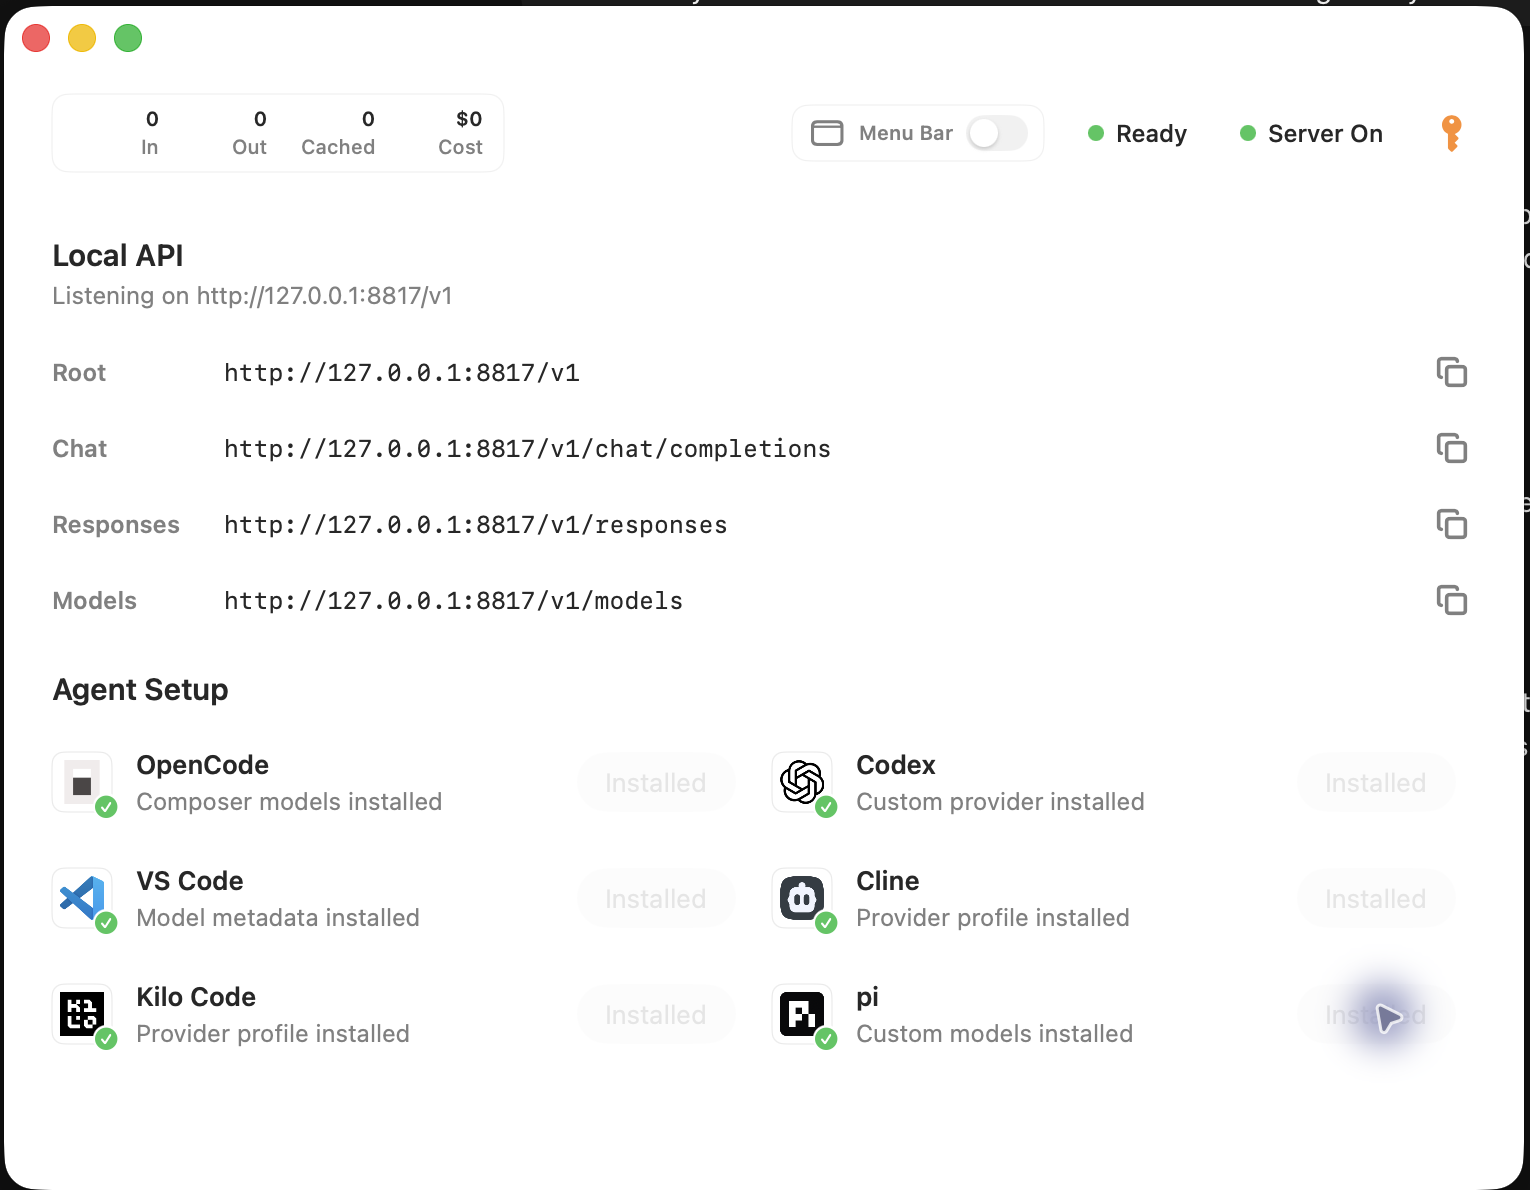
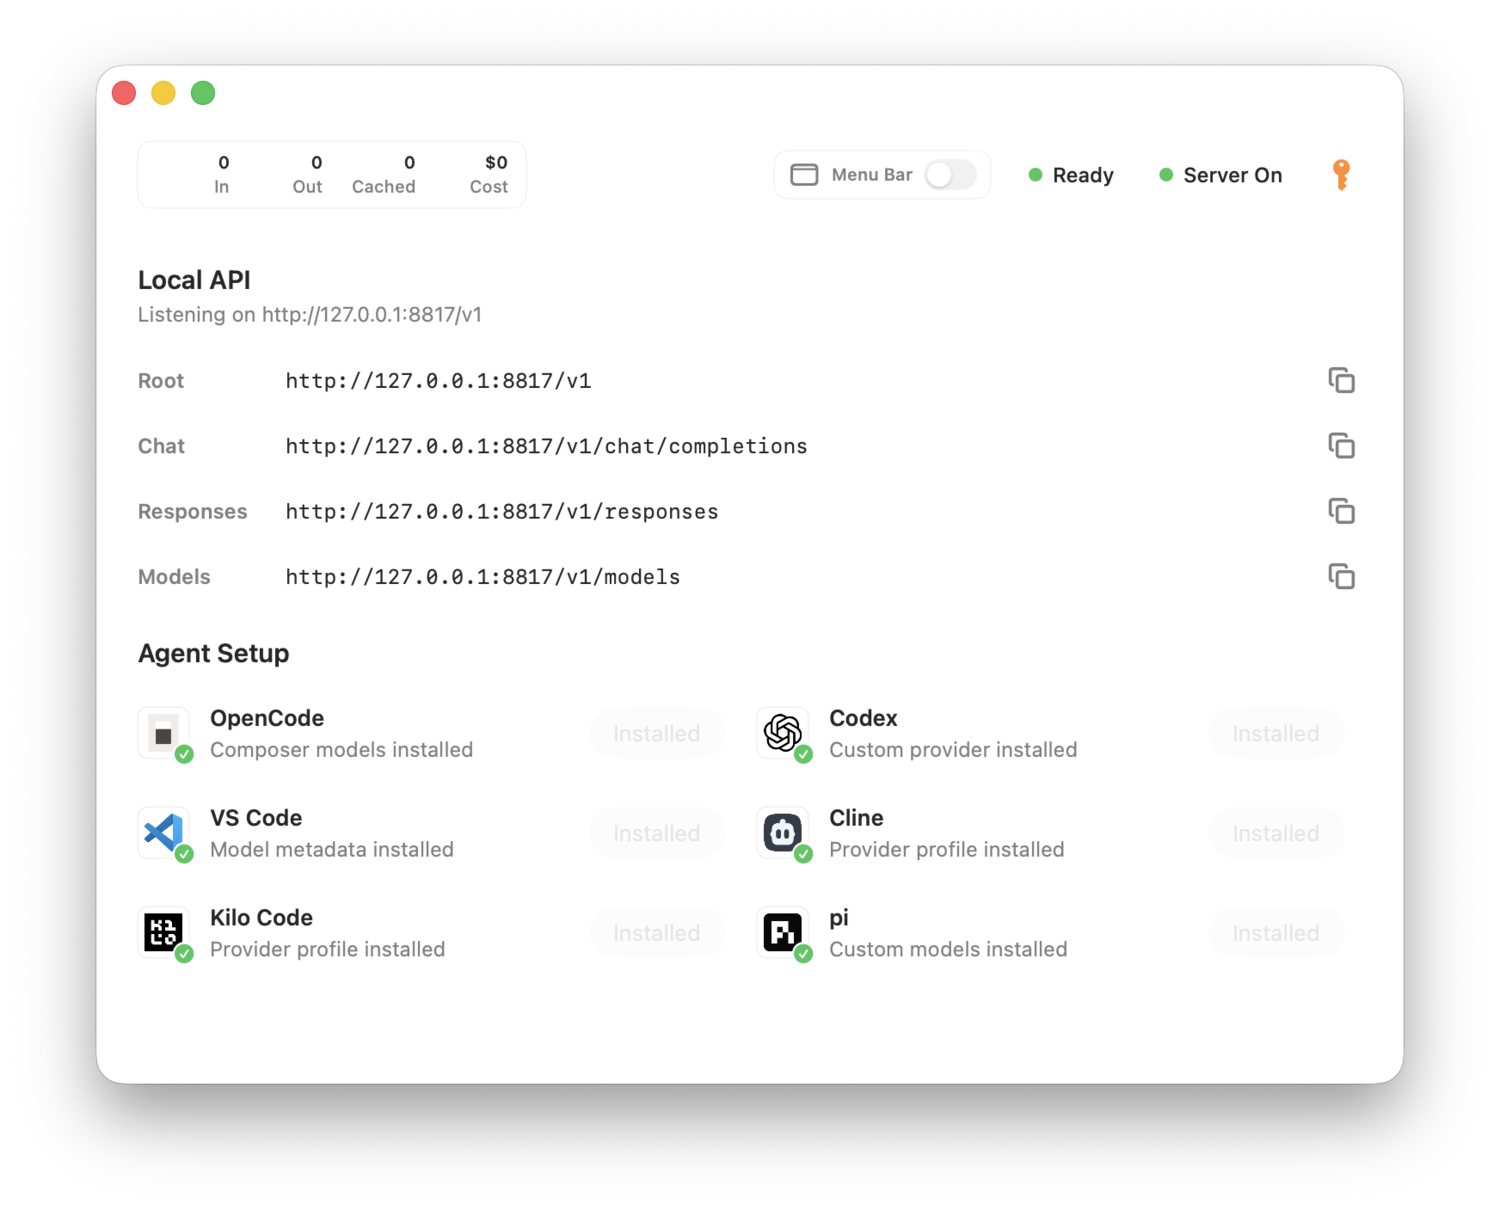
docs: adjust agent landing hero

diff --git a/src/styles.css b/src/styles.css
@@ -328,7 +328,7 @@ pre {
   z-index: 40;
   display: flex;
   justify-content: center;
-  padding: 16px clamp(16px, 4vw, 28px);
+  padding: 10px clamp(16px, 4vw, 28px);
 }
 
 .header-bar {
@@ -336,7 +336,7 @@ pre {
   align-items: center;
   gap: 20px;
   width: min(1080px, 100%);
-  padding: 9px 9px 9px 18px;
+  padding: 6px 6px 6px 14px;
   border-radius: 999px;
   transition: box-shadow 0.3s ease, background 0.3s ease;
 }
@@ -387,12 +387,24 @@ pre {
 
 /* ---------- Hero ---------- */
 .hero {
+  width: 100%;
+  padding: clamp(18px, 3vw, 36px) clamp(16px, 4vw, 28px) clamp(40px, 7vw, 80px);
+}
+
+.hero-inner {
+  display: grid;
+  grid-template-columns: minmax(0, 1fr) minmax(0, 1.04fr);
+  align-items: center;
+  gap: clamp(28px, 5vw, 64px);
+  width: min(1120px, 100%);
+  margin: 0 auto;
+}
+
+.hero-content {
   display: flex;
   flex-direction: column;
-  align-items: center;
-  width: 100%;
-  text-align: center;
-  padding: clamp(40px, 7vw, 80px) clamp(16px, 4vw, 28px) clamp(30px, 6vw, 60px);
+  align-items: flex-start;
+  text-align: left;
 }
 
 .notice-chip {
@@ -430,75 +442,90 @@ pre {
   box-shadow: 0 0 0 4px color-mix(in srgb, var(--orange) 22%, transparent);
 }
 
-.hero-icon-wrap {
-  margin-top: clamp(34px, 6vw, 54px);
-  position: relative;
-}
-
-.hero-icon-wrap::after {
-  content: "";
-  position: absolute;
-  inset: -22% -18% -40%;
-  background: radial-gradient(closest-side, color-mix(in srgb, var(--accent-2) 45%, transparent), transparent 75%);
-  filter: blur(24px);
-  z-index: -1;
-}
-
-.hero-icon {
-  border-radius: 27px;
-  box-shadow: 0 18px 50px rgba(0, 0, 0, 0.3), inset 0 1px 0 rgba(255, 255, 255, 0.2);
-}
-
 #hero-title {
-  width: min(100%, 15ch);
-  max-width: 15ch;
-  margin-top: clamp(22px, 4vw, 36px);
-  font-size: 4rem;
-  line-height: 1.04;
+  max-width: 16ch;
+  margin-top: clamp(18px, 3vw, 26px);
+  font-size: clamp(2.4rem, 4.6vw, 3.6rem);
+  line-height: 1.05;
   font-weight: 700;
   letter-spacing: 0;
   text-wrap: balance;
 }
 
-.hero-title-accent {
-  background: linear-gradient(110deg, var(--orange), var(--purple) 50%, var(--accent));
-  -webkit-background-clip: text;
-  background-clip: text;
-  color: transparent;
+/* ---------- Hero provider logos ---------- */
+.hero-logos {
+  display: flex;
+  flex-wrap: wrap;
+  gap: 8px;
+  margin-top: clamp(18px, 3vw, 24px);
+  padding: 0;
+  list-style: none;
+}
+
+.hero-logo {
+  display: inline-flex;
+  align-items: center;
+  gap: 8px;
+  padding: 6px 12px 6px 6px;
+  border-radius: 999px;
+  background: var(--glass);
+  -webkit-backdrop-filter: var(--glass-blur);
+  backdrop-filter: var(--glass-blur);
+  border: 1px solid var(--glass-border);
+  box-shadow: var(--shadow-sm);
+  font-size: 0.84rem;
+  font-weight: 600;
+  color: var(--ink-soft);
+}
+
+.hero-logo-mark {
+  display: grid;
+  place-items: center;
+  width: 26px;
+  height: 26px;
+  border-radius: 8px;
+  background: rgba(255, 255, 255, 0.92);
+  border: 1px solid var(--line);
+  overflow: hidden;
+}
+
+.hero-logo-mark img {
+  width: 17px;
+  height: 17px;
+  object-fit: contain;
+}
+
+.hero-logo-mark--ink img {
+  width: 15px;
+  height: 15px;
 }
 
 .hero-copy {
-  width: min(100%, 38ch);
-  max-width: 38ch;
-  margin-top: clamp(20px, 3vw, 28px);
+  max-width: 42ch;
+  margin-top: clamp(18px, 3vw, 26px);
   color: var(--ink-soft);
-  font-size: 1.25rem;
-  line-height: 1.5;
+  font-size: 1.12rem;
+  line-height: 1.55;
   font-weight: 450;
 }
 
 .hero-actions {
   display: flex;
   flex-wrap: wrap;
-  justify-content: center;
   gap: 14px;
-  width: min(100%, 560px);
-  margin-top: clamp(28px, 4vw, 40px);
+  margin-top: clamp(24px, 3.5vw, 34px);
 }
 
-/* ---------- Hero screenshot ---------- */
+/* ---------- Hero screenshot (shadow baked into the asset) ---------- */
 .hero-shot {
-  width: min(820px, calc(100vw - 32px));
-  max-width: 100%;
-  margin: clamp(46px, 7vw, 84px) 0 0;
+  margin: 0;
+  min-width: 0;
 }
 
 .hero-shot img {
   display: block;
   width: 100%;
   height: auto;
-  border-radius: clamp(16px, 2.4vw, 26px);
-  box-shadow: var(--shadow-lg);
 }
 
 /* ---------- Features ---------- */
@@ -929,6 +956,28 @@ pre {
 
 /* ---------- Responsive ---------- */
 @media (max-width: 900px) {
+  .hero {
+    padding-top: clamp(24px, 6vw, 40px);
+  }
+  .hero-inner {
+    grid-template-columns: 1fr;
+    gap: clamp(32px, 7vw, 48px);
+    width: min(640px, 100%);
+  }
+  .hero-content {
+    align-items: center;
+    text-align: center;
+  }
+  #hero-title {
+    max-width: 18ch;
+  }
+  .hero-logos {
+    justify-content: center;
+  }
+  .hero-copy {
+    margin-left: auto;
+    margin-right: auto;
+  }
   .features {
     grid-template-columns: 1fr;
   }
@@ -944,9 +993,6 @@ pre {
   .showcase-copy > p {
     margin-left: auto;
     margin-right: auto;
-  }
-  #hero-title {
-    font-size: 3.2rem;
   }
   .section-heading h2 {
     font-size: 2.5rem;
@@ -1004,13 +1050,11 @@ pre {
     white-space: normal;
   }
   #hero-title {
-    width: min(100%, 12ch);
-    max-width: 12ch;
-    font-size: 2.25rem;
+    max-width: 14ch;
     line-height: 1.08;
   }
   .hero-copy {
-    font-size: 1.08rem;
+    font-size: 1.04rem;
   }
   .section-heading h2 {
     font-size: 1.9rem;

diff --git a/index.html b/index.html
@@ -45,7 +45,7 @@
       <header class="site-header">
         <div class="header-bar glass">
           <a class="brand" href="/" aria-label="API for Cursor">
-            <img class="brand-icon" src="/api-for-cursor-icon.png" alt="" width="36" height="36" />
+            <img class="brand-icon" src="/api-for-cursor-icon.png" alt="" width="28" height="28" />
             <span class="brand-text">API for Cursor</span>
           </a>
           <nav class="header-nav" aria-label="Primary navigation">
@@ -61,53 +61,69 @@
       </header>
 
       <section class="hero" aria-labelledby="hero-title">
-        <button type="button" class="notice-chip glass" data-endpoint-modal-open>
-          <span class="notice-dot" aria-hidden="true"></span>
-          <span>Looking for the hosted API endpoints?</span>
-          <i data-lucide="arrow-right" data-size="14"></i>
-        </button>
+        <div class="hero-inner">
+          <div class="hero-content">
+            <button type="button" class="notice-chip glass" data-endpoint-modal-open>
+              <span class="notice-dot" aria-hidden="true"></span>
+              <span>Looking for the hosted API endpoints?</span>
+              <i data-lucide="arrow-right" data-size="14"></i>
+            </button>
 
-        <div class="hero-icon-wrap" aria-hidden="true">
-          <img class="hero-icon" src="/api-for-cursor-icon.png" alt="" width="120" height="120" />
+            <h1 id="hero-title">Use Cursor's models with any harness</h1>
+
+            <ul class="hero-logos" aria-label="Supported coding agents">
+              <li class="hero-logo">
+                <span class="hero-logo-mark"><img src="/provider-logos/opencode.png" alt="" loading="lazy" /></span>
+                <span>OpenCode</span>
+              </li>
+              <li class="hero-logo">
+                <span class="hero-logo-mark hero-logo-mark--ink"><img src="/provider-logos/codex.svg" alt="" loading="lazy" /></span>
+                <span>Codex</span>
+              </li>
+              <li class="hero-logo">
+                <span class="hero-logo-mark"><img src="/provider-logos/vscode.png" alt="" loading="lazy" /></span>
+                <span>VS&nbsp;Code</span>
+              </li>
+              <li class="hero-logo">
+                <span class="hero-logo-mark"><img src="/provider-logos/cline.png" alt="" loading="lazy" /></span>
+                <span>Cline</span>
+              </li>
+              <li class="hero-logo">
+                <span class="hero-logo-mark"><img src="/provider-logos/kilo.svg" alt="" loading="lazy" /></span>
+                <span>Kilo&nbsp;Code</span>
+              </li>
+              <li class="hero-logo">
+                <span class="hero-logo-mark hero-logo-mark--ink"><img src="/provider-logos/pi.svg" alt="" loading="lazy" /></span>
+                <span>pi</span>
+              </li>
+            </ul>
+
+            <p class="hero-copy">
+              API for Cursor runs a local, OpenAI-compatible server on your Mac, so OpenCode,
+              Codex, VS&nbsp;Code, Cline, and any client that speaks <code>/v1</code> can use
+              Cursor Composer models against your real project files.
+            </p>
+
+            <div class="hero-actions">
+              <a class="btn btn-primary btn-lg" href="/download">
+                <i data-lucide="download" data-size="20"></i>
+                <span class="btn-stack">
+                  <strong>Download for macOS</strong>
+                  <small>Free local app</small>
+                </span>
+              </a>
+            </div>
+          </div>
+
+          <figure class="hero-shot" aria-label="API for Cursor showing the local API and agent setup">
+            <img
+              src="/screenshots/api-for-cursor-agent-setup.webp"
+              alt="API for Cursor app: a running local API with Root, Chat, Responses, and Models endpoints, plus one-click agent setup for OpenCode, Codex, VS Code, Cline, Kilo Code, and pi."
+              width="1500"
+              height="1212"
+            />
+          </figure>
         </div>
-
-        <h1 id="hero-title">
-          Run Composer models in your
-          <span class="hero-title-accent">local coding agents</span>
-        </h1>
-
-        <p class="hero-copy">
-          API for Cursor runs a local, OpenAI-compatible server on your Mac, so OpenCode,
-          Codex, VS&nbsp;Code, Cline, and any client that speaks <code>/v1</code> can use
-          Cursor Composer models against your real project files.
-        </p>
-
-        <div class="hero-actions">
-          <a class="btn btn-primary btn-lg" href="/download">
-            <i data-lucide="download" data-size="20"></i>
-            <span class="btn-stack">
-              <strong>Download for macOS</strong>
-              <small>Free local app</small>
-            </span>
-          </a>
-          <button class="btn btn-glass btn-lg" type="button" data-copy="http://127.0.0.1:8787/v1">
-            <span class="btn-stack">
-              <strong class="copy-label">Copy local base URL</strong>
-              <small><code>http://127.0.0.1:8787/v1</code></small>
-            </span>
-            <svg xmlns="http://www.w3.org/2000/svg" width="16" height="16" viewBox="0 0 24 24" fill="none" stroke="currentColor" stroke-width="1.8" stroke-linecap="round" stroke-linejoin="round" aria-hidden="true" class="copy-icon lucide-icon lucide lucide-copy"><rect width="14" height="14" x="8" y="8" rx="2" ry="2"></rect><path d="M4 16c-1.1 0-2-.9-2-2V4c0-1.1.9-2 2-2h10c1.1 0 2 .9 2 2"></path></svg>
-            <i data-lucide="check" data-size="18" class="copied-icon"></i>
-          </button>
-        </div>
-
-        <figure class="hero-shot" aria-label="API for Cursor showing the local API and agent setup">
-          <img
-            src="/screenshots/api-for-cursor-agent-setup.webp"
-            alt="API for Cursor app: a running local API with Root, Chat, Responses, and Models endpoints, plus one-click agent setup for OpenCode, Codex, VS Code, Cline, Kilo Code, and pi."
-            width="765"
-            height="595"
-          />
-        </figure>
       </section>
 
       <section id="features" class="features" aria-label="Why a local API">